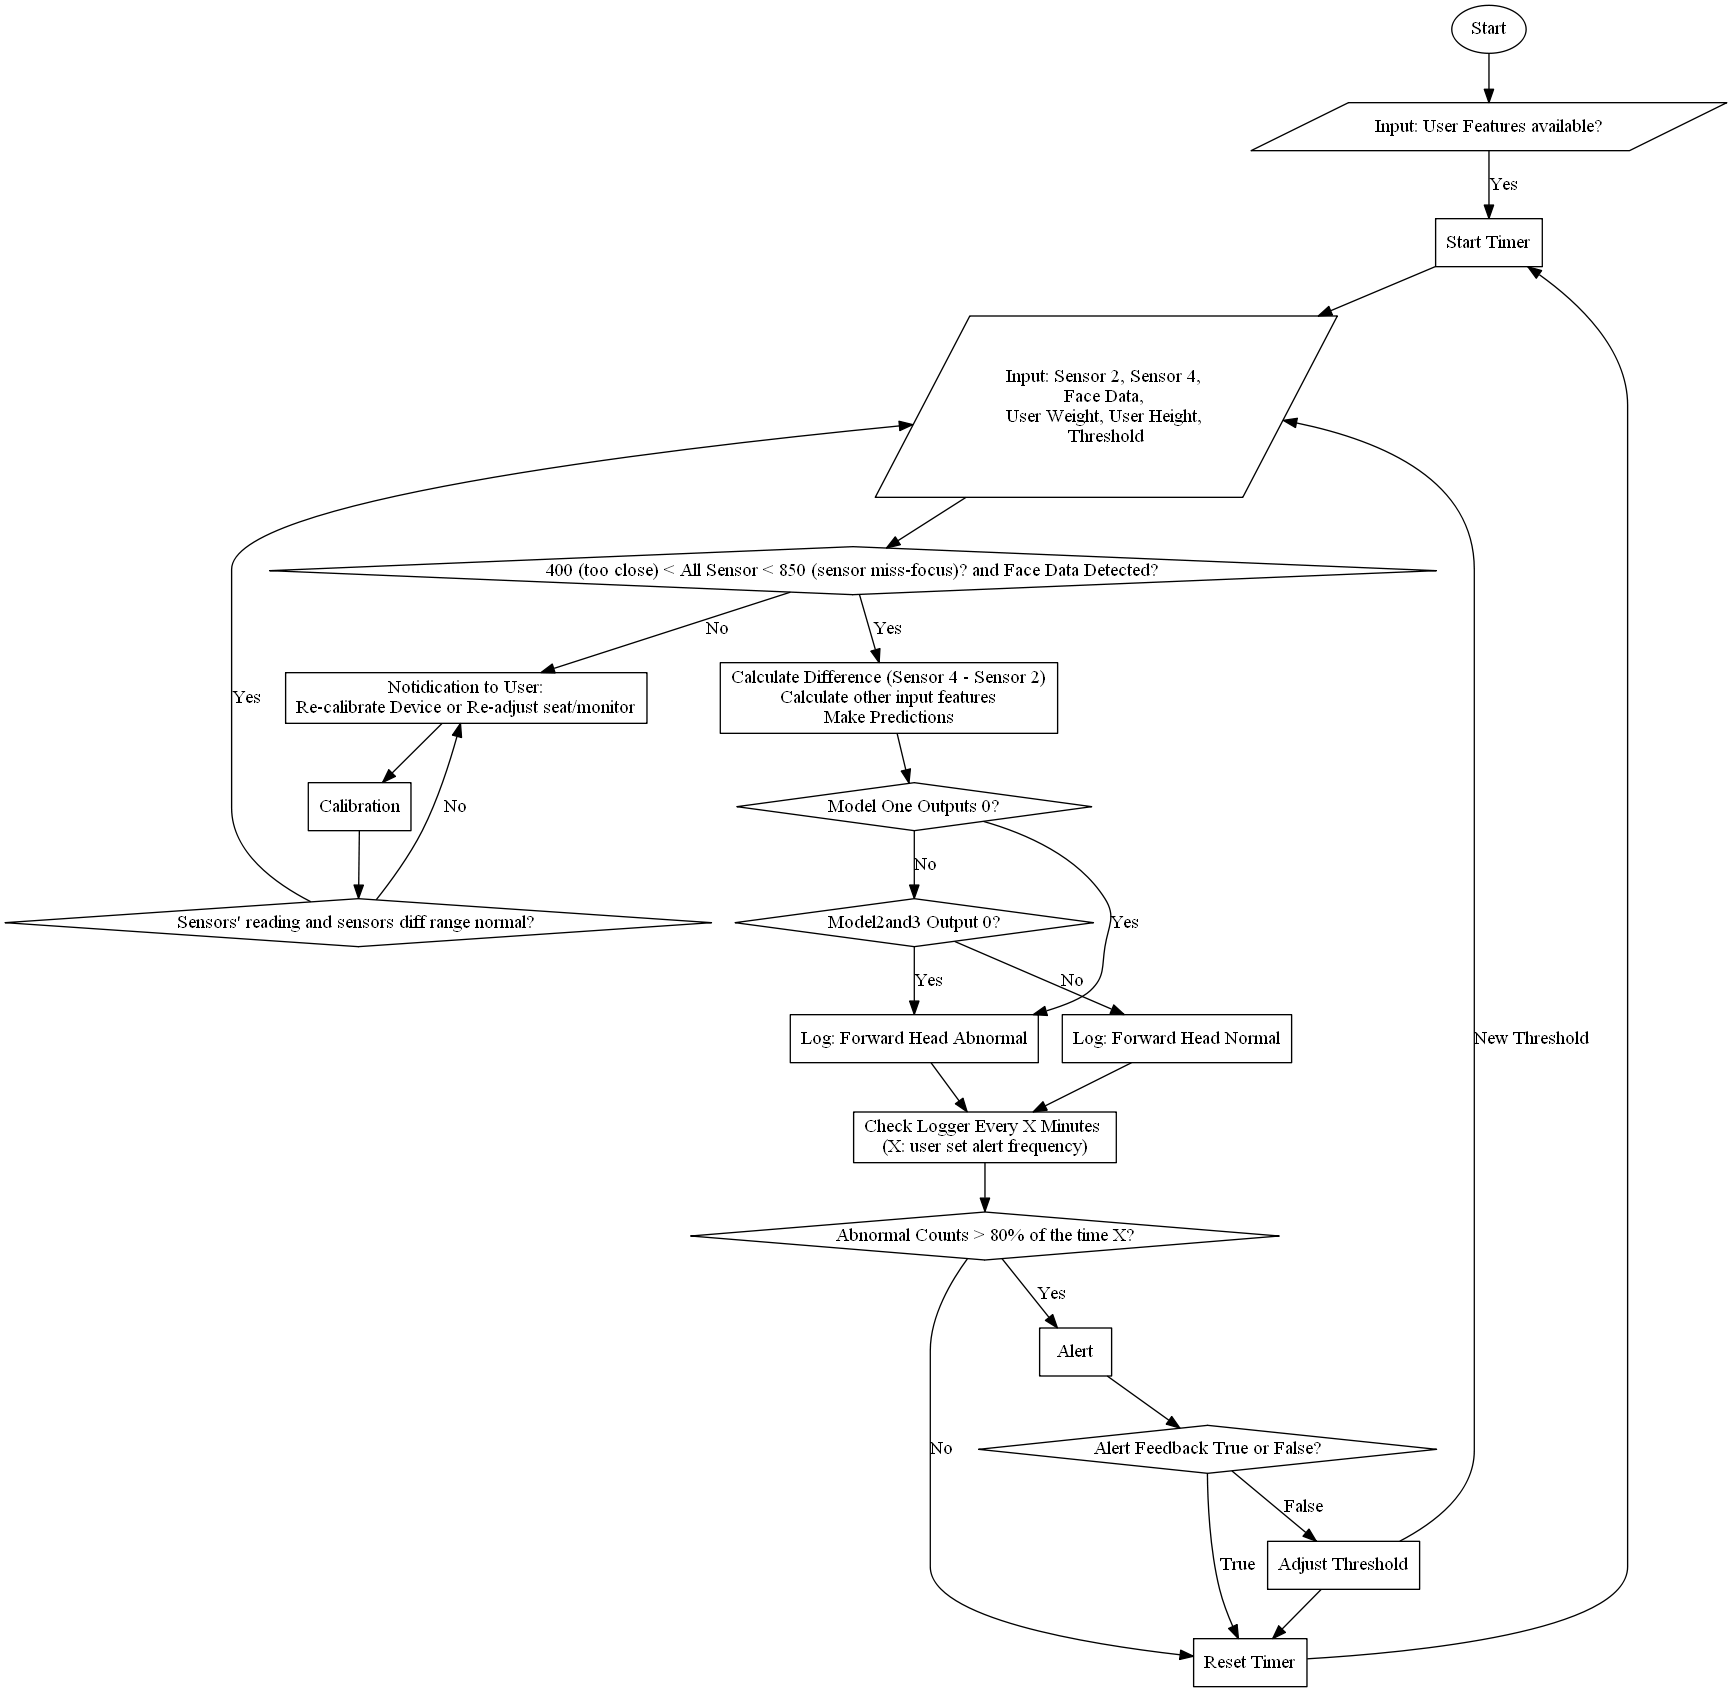
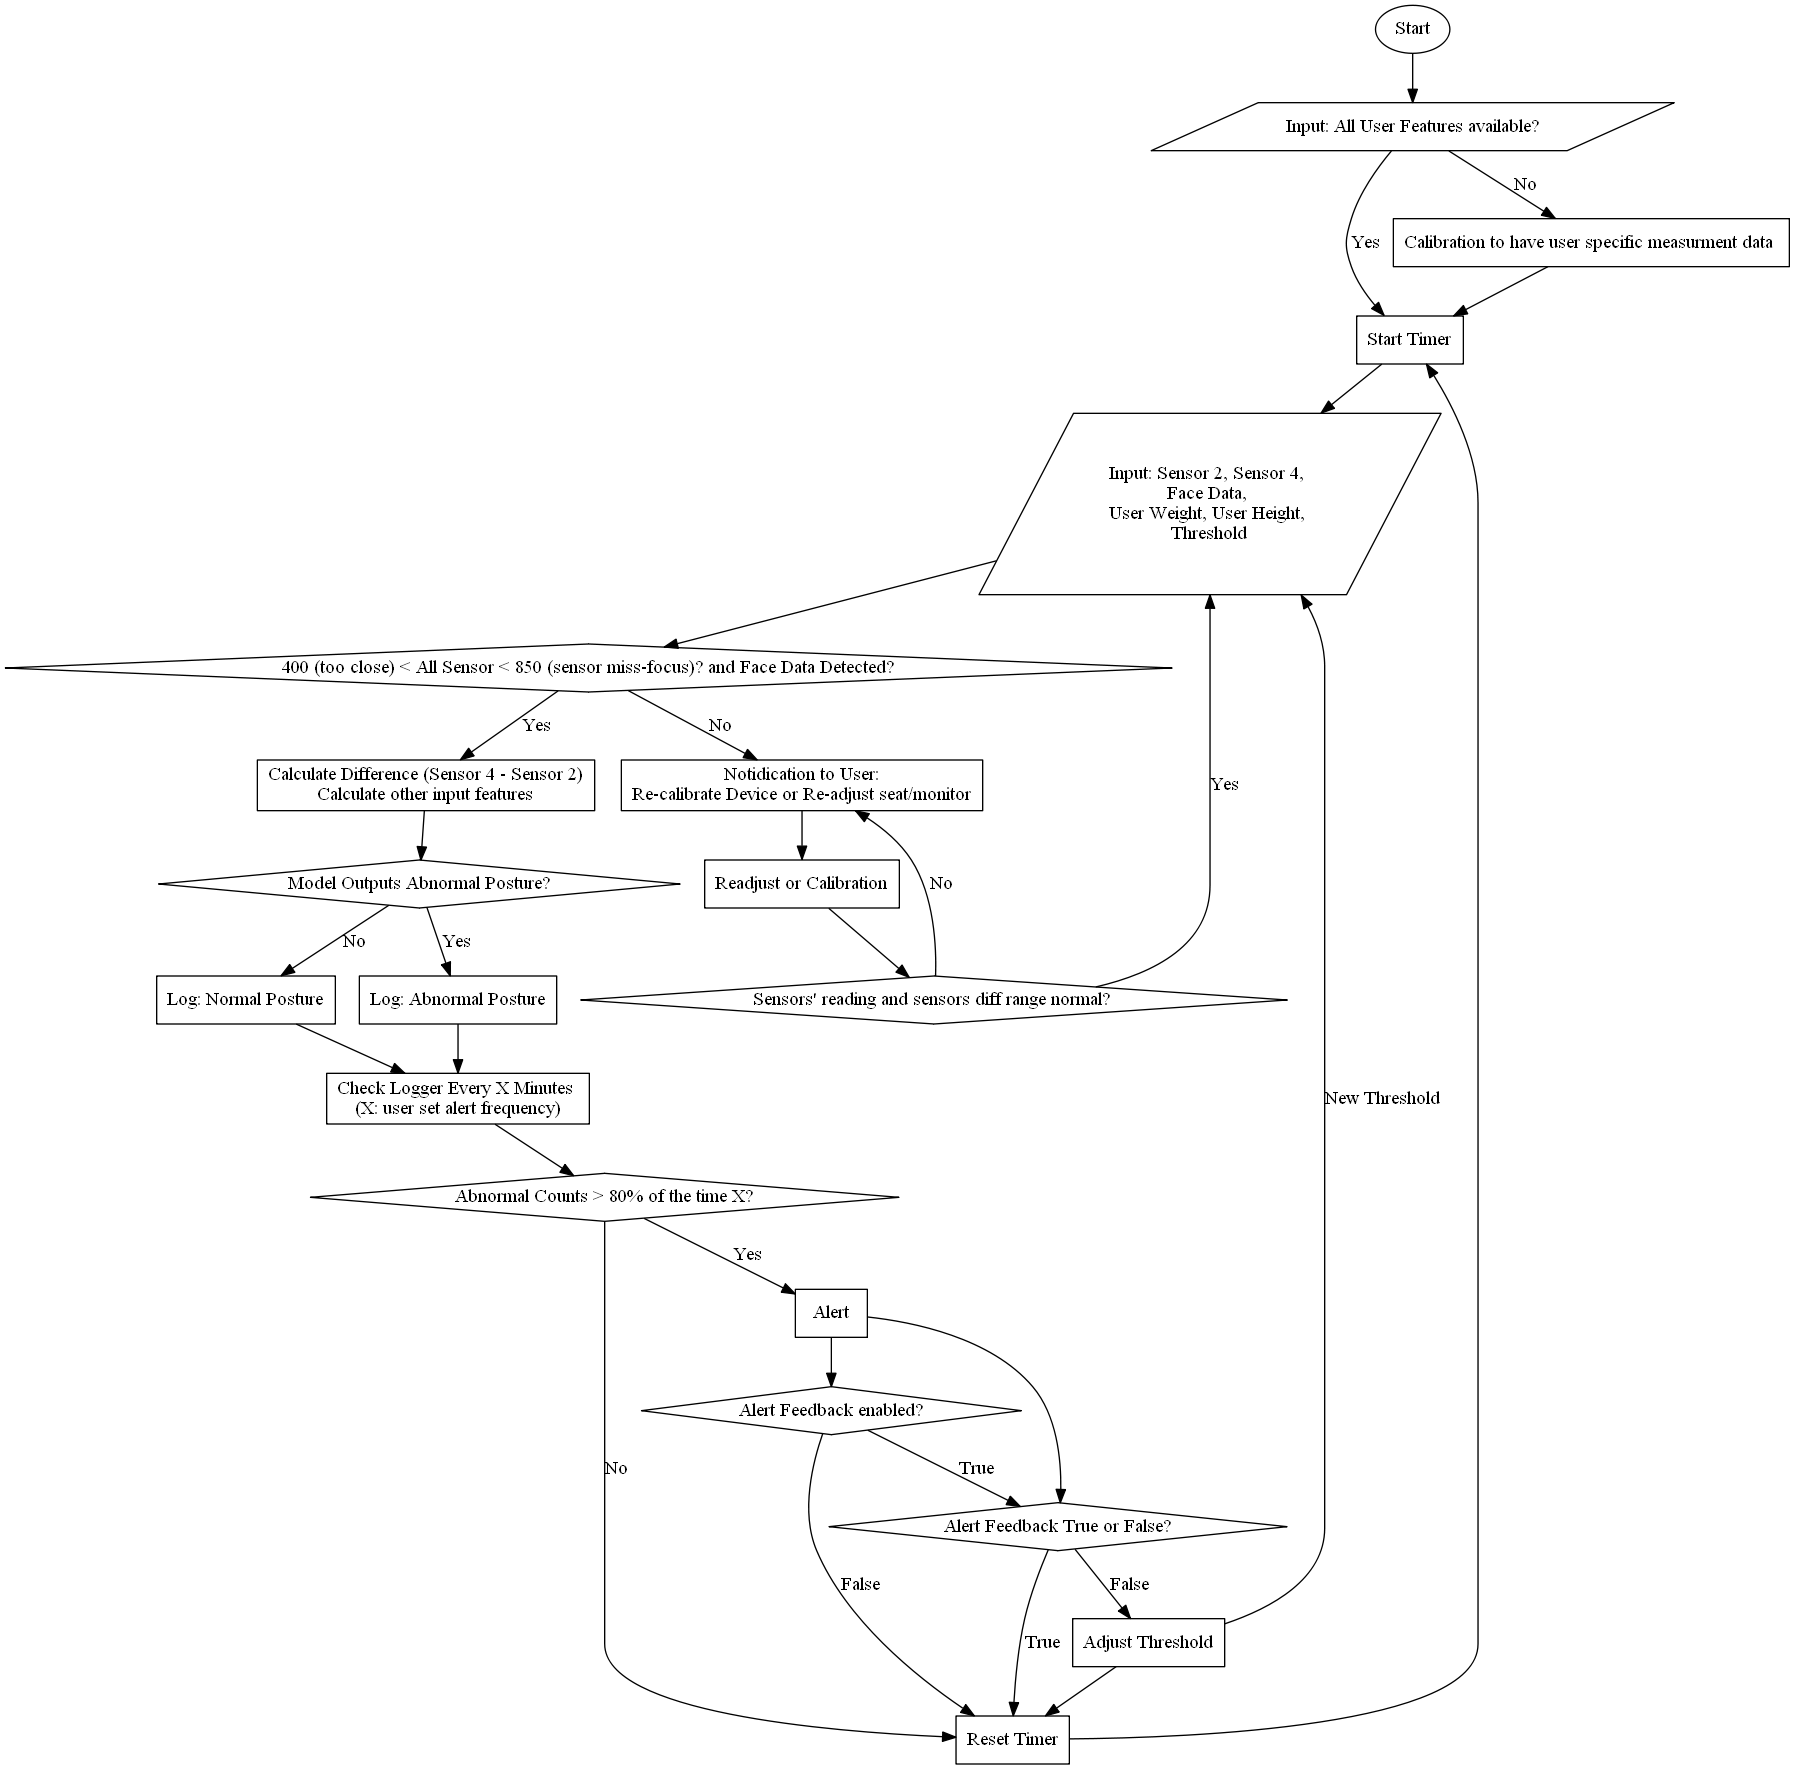
updated chart

diff --git a/gui/logic_flowchart.py b/gui/logic_flowchart.py
@@ -1,72 +1,44 @@
 from graphviz import Digraph
-# Dear TEAM, I have created a flowchart for the logic of device monitoring.
-# Please consider when building the GUI. Thank you!
+
 def create_complex_flowchart():
     dot = Digraph(comment='Complex Logic Flowchart')
 
-    # 开始节点
     dot.node('A', 'Start', shape='ellipse')  # 椭圆形表示开始或结束节点
 
-    # 要求保持治理坐姿
-    dot.node('B', 'Calibration', shape='rectangle')  # 矩形表示过程或操作步骤
-    # 判断节点1: 判断Sensor是否都在400-1200范围内
+    dot.node('B', 'Readjust or Calibration', shape='rectangle')  # 矩形表示过程或操作步骤
+
     dot.node('B1', "Sensors' reading and sensors diff range normal? ", shape='diamond')  # 菱形表示判断或决策点
-    # 输入节点
-    dot.node('C', 'Input: User Features available?', shape='parallelogram')  # 平行四边形表示输入/输出操作
 
-    # 判断节点1: 判断Sensor是否都在400-1200范围内
-    # dot.node('D', '400 (too close) < All Sensor < 850 (sensor miss-focus)? ', shape='diamond')  # 菱形表示判断或决策点
+    dot.node('C', 'Input: All User Features available?', shape='parallelogram')  # 平行四边形表示输入/输出操作
 
-    # # 判断节点2: 判断人脸数据是否有识别到
-    # dot.node('E', 'Face Data Detected?', shape='diamond')
+    dot.node('D', 'Calibration to have user specific measurment data ', shape='rectangle')  # 菱形表示判断或决策点
 
-    # 重新矫正设备
     dot.node('F', 'Notidication to User:\nRe-calibrate Device or Re-adjust seat/monitor', shape='rectangle')
 
-    # 开始检测节点
     dot.node('G', 'Start Timer', shape='rectangle')
 
-    # 输入节点（开始检测后的输入）
     dot.node('G1', 'Input: Sensor 2, Sensor 4, \nFace Data, \nUser Weight, User Height, \nThreshold', shape='parallelogram')
 
     dot.node('G2', '400 (too close) < All Sensor < 850 (sensor miss-focus)? and Face Data Detected?', shape='diamond')
 
     # 计算差值和角度
-    dot.node('H', 'Calculate Difference (Sensor 4 - Sensor 2)\nCalculate other input features\nMake Predictions', shape='rectangle')
-
-    # # 判断节点3: 头部倾斜角度是否大于20度
-    # dot.node('I', 'Head Tilt > 20°?', shape='diamond')
+    dot.node('H', 'Calculate Difference (Sensor 4 - Sensor 2)\nCalculate other input features', shape='rectangle')
 
     # 判断节点4: Sensor 4和Sensor 2的差值是否超过阈值
-    dot.node('J', 'Model One Outputs 0?', shape='diamond')
-    dot.node('J1', 'Model2and3 Output 0?', shape='diamond')
-    dot.edge('J', 'J1', label='No')
-    dot.edge('J1', 'L', label='Yes')
-    dot.edge('J1', 'L1', label='No')
-    # 输出到logger
-    # dot.node('K', 'Log: Head Tilt Abnormal', shape='rectangle')
-    dot.node('L', 'Log: Forward Head Abnormal', shape='rectangle')
-    dot.node('L1', 'Log: Forward Head Normal', shape='rectangle')
-
-    # Timer节点
-    #dot.node('T', 'Start Timer', shape='rectangle')
-
-    # 每5分钟检查一次logger
+    dot.node('J', 'Model Outputs Abnormal Posture?', shape='diamond')
+    dot.edge('J', 'L', label='Yes')
+    dot.edge('J', 'L1', label='No')
+    dot.node('L', 'Log: Abnormal Posture', shape='rectangle')
+    dot.node('L1', 'Log: Normal Posture', shape='rectangle')
     dot.node('M', 'Check Logger Every X Minutes \n(X: user set alert frequency)', shape='rectangle')
-
-    # 判断logger的数量是否大于80%
     dot.node('N', 'Abnormal Counts > 80% of the time X?', shape='diamond')
-
-    # 发出警报
     dot.node('O', 'Alert', shape='rectangle')
-
-    # 警报反馈节点
+    dot.edge('O', 'O1')
+    dot.node('O1', 'Alert Feedback enabled?', shape='diamond')
+    dot.edge('O1', 'P', label='True')
+    dot.edge('O1', 'R', label='False')
     dot.node('P', 'Alert Feedback True or False?', shape='diamond')
-
-    # 调整阈值
     dot.node('Q', 'Adjust Threshold', shape='rectangle')
-
-    # 增加的Restart节点
     dot.node('R', 'Reset Timer', shape='rectangle')
 
     # 连线
@@ -76,7 +48,8 @@ def create_complex_flowchart():
 
     # dot.edge('D', 'E', label='Yes')
     dot.edge('C', 'G', label='Yes')
-    # dot.edge('E', 'G', label='Yes')
+    dot.edge('C', 'D', label='No')
+    dot.edge('D', 'G')
     # dot.edge('E', 'F', label='No')
     dot.edge('B1', 'G1', label='Yes')
     dot.edge('B1', 'F', label='No')
@@ -84,9 +57,7 @@ def create_complex_flowchart():
 
     # 分开Start Detection和Input
     dot.edge('G', 'G1')
-    #dot.edge('G1', 'H')
-    #dot.edge('T', 'H')
-    #dot.edge('G1', 'T', constraint='false')
+
 
     # G2节点逻辑
     dot.edge('G2', 'H', label='Yes')  # 如果G2判断为是，进入H
@@ -94,30 +65,22 @@ def create_complex_flowchart():
 
     dot.edge('H', 'J')
     # dot.edge('I', 'J', label='No')
-    # dot.edge('I', 'K', label='Yes')
-    dot.edge('J', 'L', label='Yes')
-    # dot.edge('J', 'L1', label='Normal')  # 这里改为连接Restart节点
     # dot.edge('K', 'M')
     dot.edge('L', 'M')
     dot.edge('L1', 'M')
 
-    # 新增的逻辑部分
     dot.edge('M', 'N')
     dot.edge('N', 'O', label='Yes')
     dot.edge('N', 'R', label='No')  # 如果Logger Counts不超过80%，连接到Restart节点
     dot.edge('O', 'P')
 
-    # 警报反馈处理
     dot.edge('P', 'R', label='True')
     dot.edge('P', 'Q', label='False')
 
-    # 调整阈值后的逻辑
     dot.edge('Q', 'G1',label='New Threshold')
     dot.edge('Q', 'R')
 
-    # 渲染并保存图像
     dot.render('complex_logic_flowchart_with_alert_feedback', format='png', cleanup=True)
     print("Flowchart saved as 'complex_logic_flowchart_with_alert_feedback.png'")
 
-# 创建复杂流程图
 create_complex_flowchart()

diff --git a/gui/flex_collect.py b/gui/flex_collect.py
@@ -91,7 +91,7 @@ class PostureDataCollection(tk.Toplevel):
                     self.restart()
                     return
 
-                average_median = median_values.mean()
+                average_median = median_values.mean() + 10
                 print("Average of the two medians is:", average_median)
 
                 if 30 < average_median < 180:
